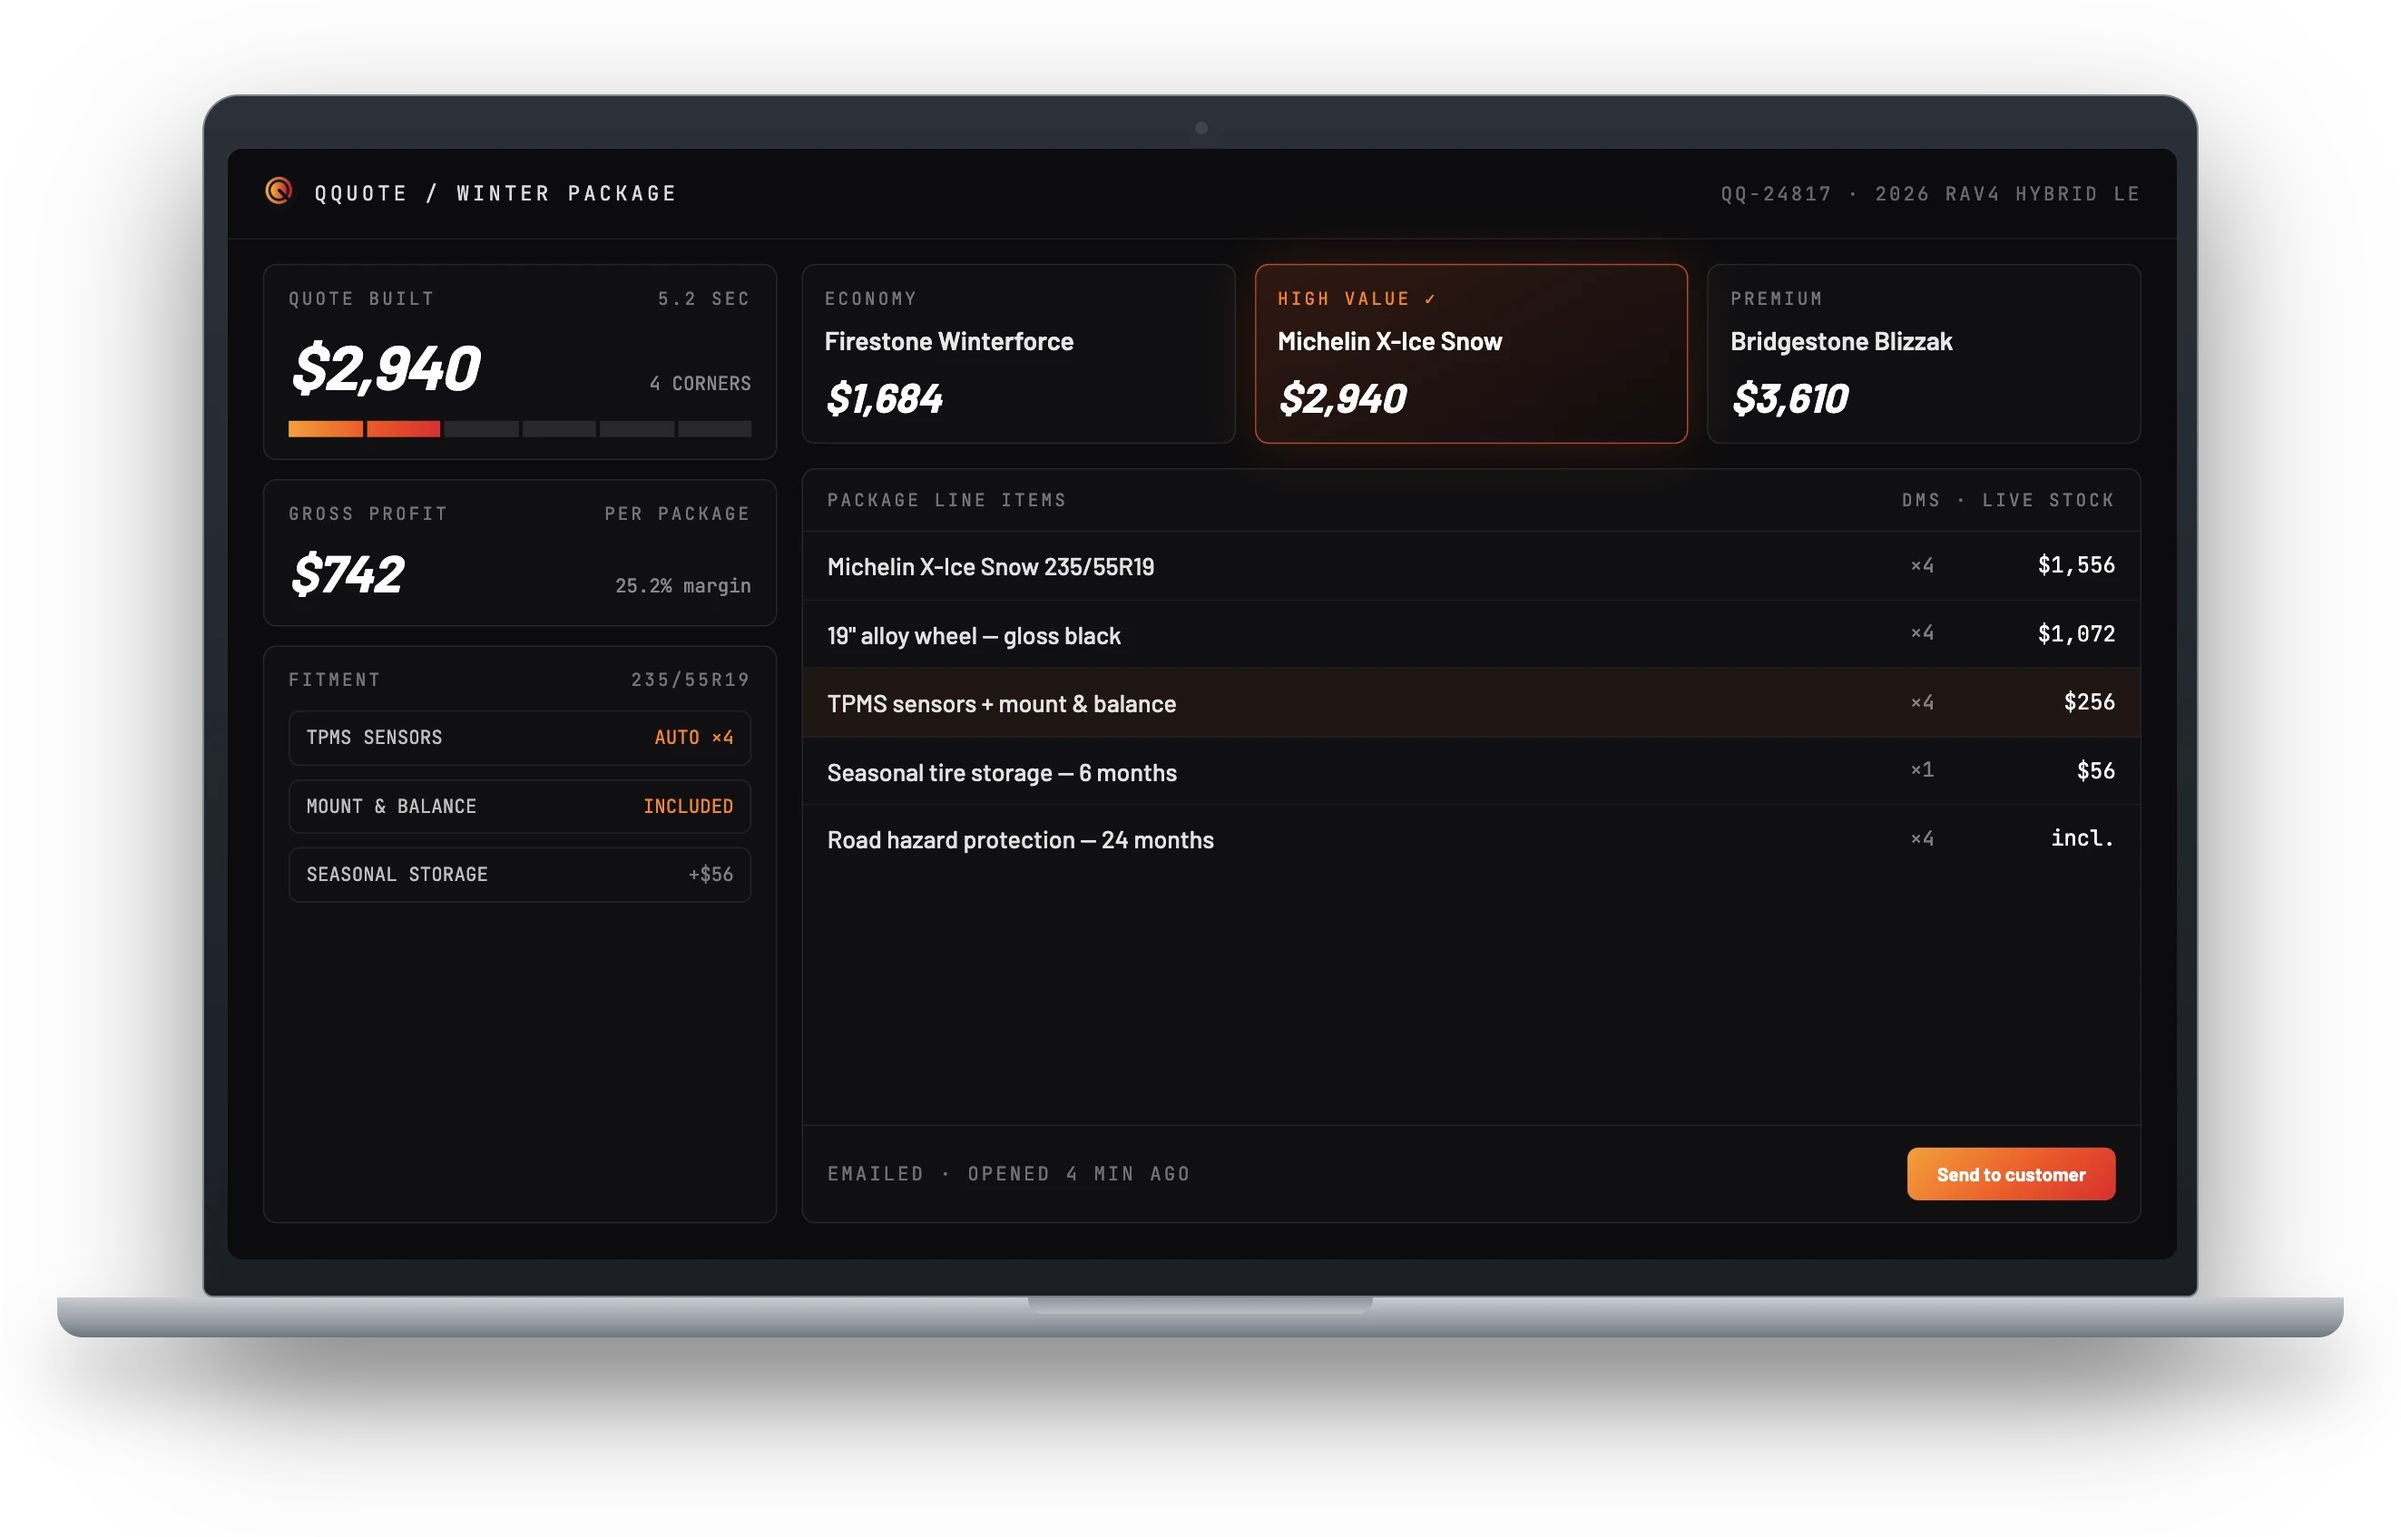
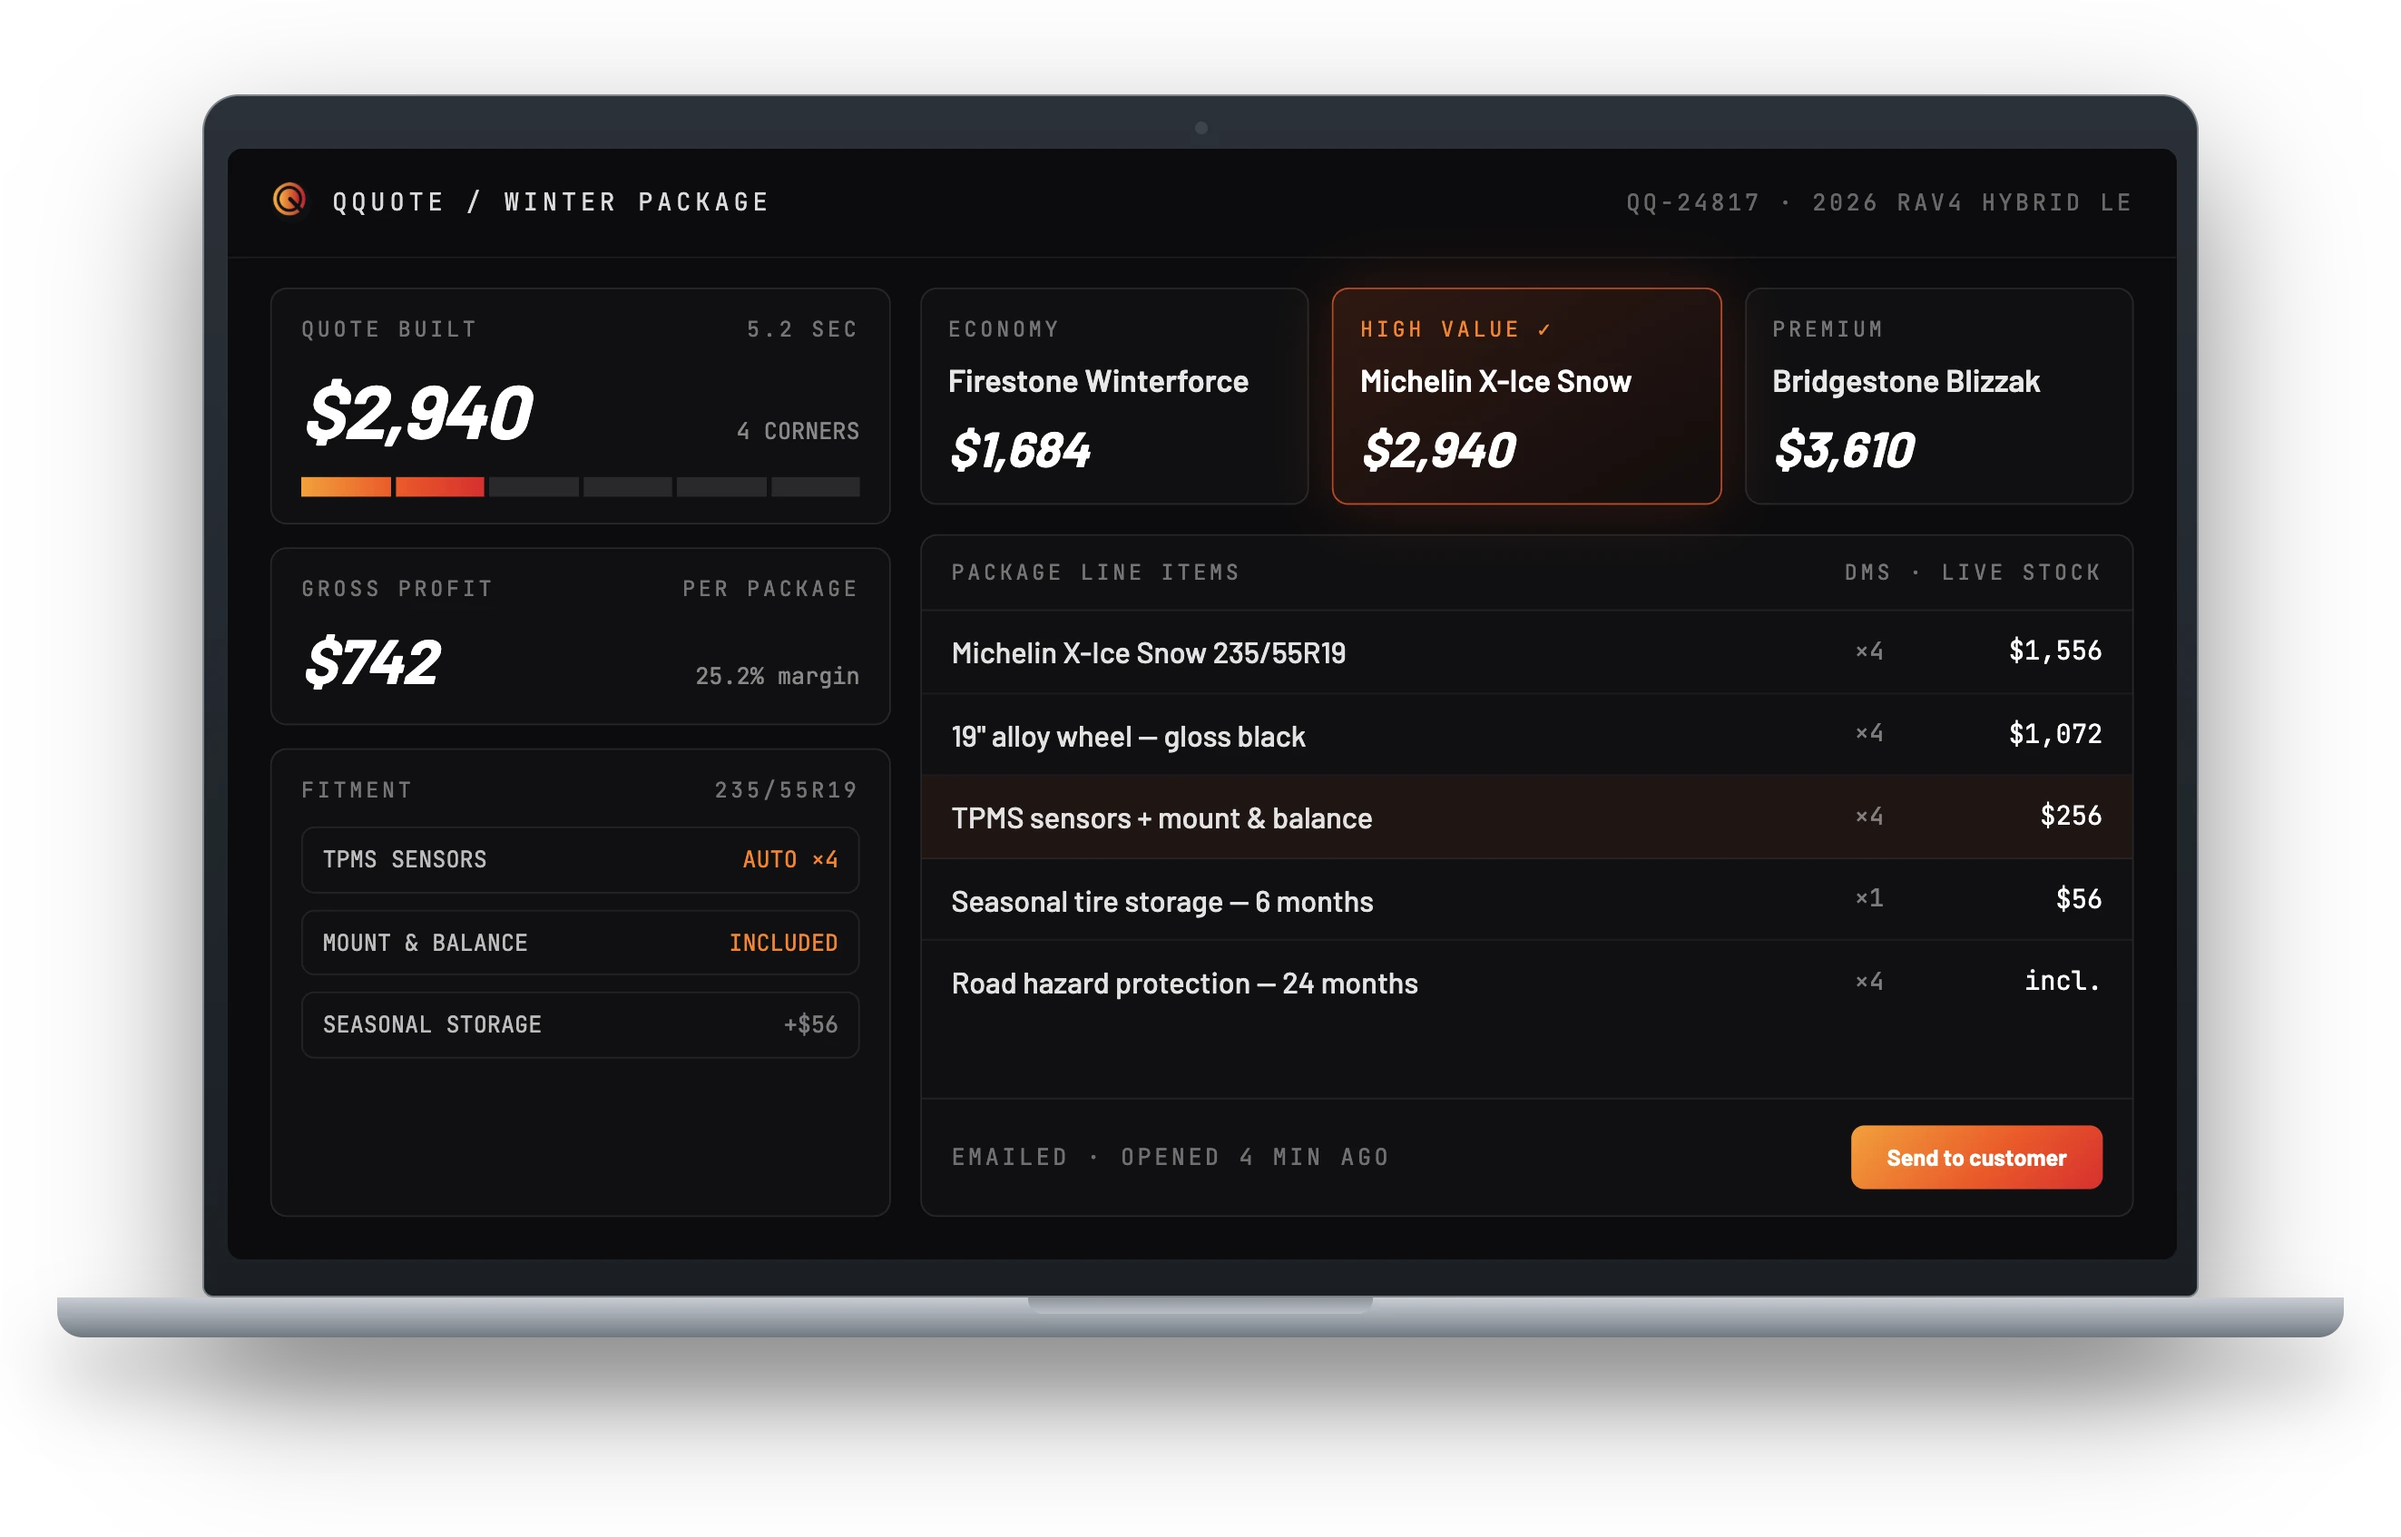
qquote page: new laptop image, sizing, glow, spacing tweaks

diff --git a/src/style.css b/src/style.css
@@ -886,7 +886,7 @@ body {
 
 /* QQuote (id 2): lower the meta section */
 .project-detail-content:has(.project-glow-2) .detail-meta {
-  margin-top: 5rem;
+  margin-top: 3.5rem;
 }
 
 /* Encore project (id 3): lower the meta section */
@@ -1337,6 +1337,18 @@ body {
   box-shadow: none !important;
 }
 
+/* QQuote laptop renders slightly larger than the standard frame */
+.project-detail-image-container.qquote-detail {
+  max-width: 740px;
+  width: min(55vw, 740px);
+}
+
+@media (max-width: 768px) {
+  .project-detail-image-container.qquote-detail {
+    width: 100%;
+  }
+}
+
 /* Encore desk renders slightly larger than the standard frame */
 .project-detail-image-container.encore-detail {
   max-width: 840px;
@@ -1362,9 +1374,9 @@ body {
   object-fit: contain;
   width: 100%;
   height: auto;
-  filter: drop-shadow(0 0 18px rgba(218, 108, 53, 0.85))
-    drop-shadow(0 0 36px rgba(218, 108, 53, 0.6))
-    drop-shadow(0 0 70px rgba(218, 108, 53, 0.4)); /* DA6C35 for QQuote */
+  filter: drop-shadow(0 0 18px rgba(218, 108, 53, 0.6))
+    drop-shadow(0 0 36px rgba(218, 108, 53, 0.42))
+    drop-shadow(0 0 70px rgba(218, 108, 53, 0.28)); /* DA6C35 for QQuote */
 }
 
 .shopify-image {
